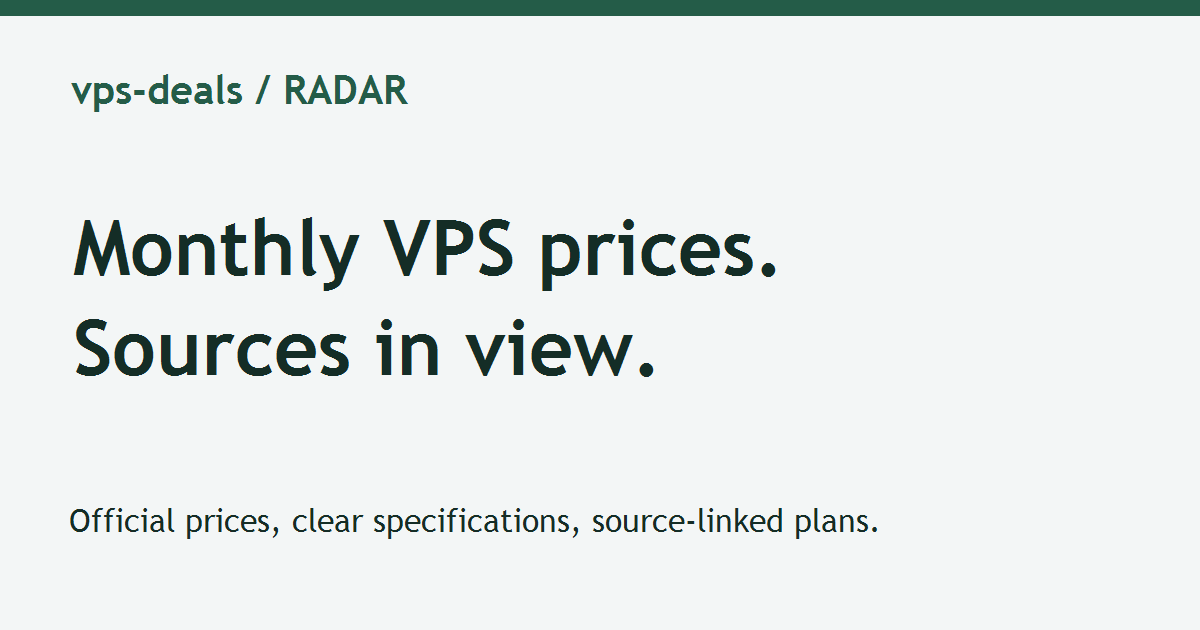
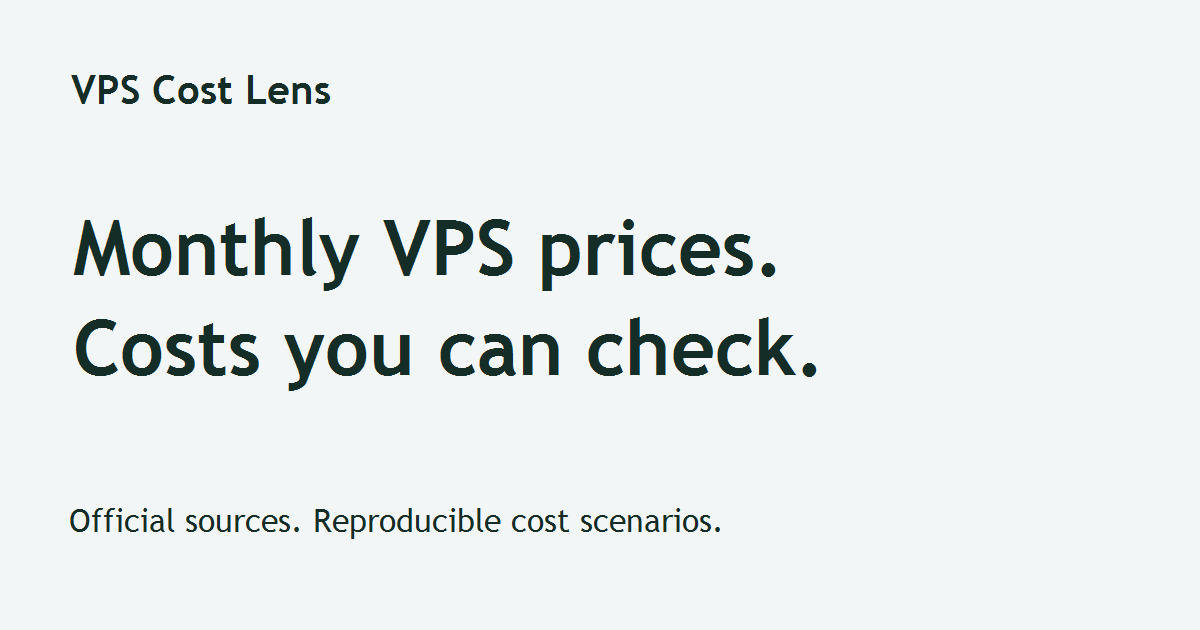
Prepare price index, verified billing scenarios and custom domain migration

diff --git a/templates/index.html b/templates/index.html
@@ -1,4 +1,4 @@
 <section class="hero" aria-labelledby="hero-title"><div class="hero-intro"><h1 id="hero-title">Choose a VPS with the monthly price in view.</h1><p>Compare official monthly prices with memory, compute and storage in the same place. Check the source before you deploy.</p><a class="button primary" href="#plans">Explore verified plans</a><p class="freshness">Source check: <time datetime="$checked">$checked_label</time></p></div><div class="price-readout"><h2>Monthly price readout</h2><p>Published USD prices, paired with memory. Bar length represents cost, not performance.</p><ol class="price-ladder">$readout</ol><p class="readout-caption">All $count listed plans. Comparable specifications do not imply equivalent performance.</p></div></section>
 <section class="provider-directory" aria-label="Monitored providers"><p>$provider_count official sources monitored. Open a provider to inspect its current verification status.</p><div class="provider-links">$providers</div></section>
-<section id="plans" class="plan-section" aria-labelledby="plans-heading"><div class="section-heading"><h2 id="plans-heading">Find a plan that fits.</h2><a href="/compare/">Open the comparison table</a></div><p class="measure">These are verified list prices, not claimed discounts. Taxes, region and optional services can change the final bill.</p><form class="plan-controls" data-controls hidden role="search" aria-label="Filter verified plans"><label>Provider or plan<input name="query" type="search" placeholder="Search listed plans" autocomplete="off"></label><label>Maximum USD per month<input name="budget" type="number" min="0" step="any" inputmode="decimal" placeholder="Any amount" aria-describedby="filter-error"></label><label>Sort plans<select name="sort"><option value="price">Lowest monthly price</option><option value="memory">Most memory</option></select></label><button type="reset" class="button secondary" disabled>Reset</button><p id="filter-error" class="field-error" role="alert" hidden>Enter a monthly budget of 0 or more.</p></form><p class="results-label" data-result-count role="status" aria-live="polite">$count plans listed</p><div class="cards" data-plan-list>$cards</div><div class="no-results" data-no-results hidden><h3>No plans match your filters.</h3><p>Increase the budget or clear the search to see the available plans.</p><button type="button" class="button secondary" data-clear>Clear filters</button></div><noscript><p>All verified plans are shown. Browser JavaScript is needed only for optional filtering and sorting.</p></noscript></section>
+<section id="plans" class="plan-section" aria-labelledby="plans-heading"><div class="section-heading"><h2 id="plans-heading">Find a plan that fits.</h2><a href="/compare/">Open the comparison table</a></div><p class="measure">These are published base prices. Taxes, region and optional services can change the final bill.</p><form class="plan-controls" data-controls hidden role="search" aria-label="Filter verified plans"><label>Provider or plan<input name="query" type="search" placeholder="Search listed plans" autocomplete="off"></label><label>Maximum USD per month<input name="budget" type="number" min="0" step="any" inputmode="decimal" placeholder="Any amount" aria-describedby="filter-error"></label><label>Sort plans<select name="sort"><option value="price">Lowest monthly price</option><option value="memory">Most memory</option></select></label><button type="reset" class="button secondary" disabled>Reset</button><p id="filter-error" class="field-error" role="alert" hidden>Enter a monthly budget of 0 or more.</p></form><p class="results-label" data-result-count role="status" aria-live="polite">$count plans listed</p><div class="cards" data-plan-list>$cards</div><div class="no-results" data-no-results hidden><h3>No plans match your filters.</h3><p>Increase the budget or clear the search to see the available plans.</p><button type="button" class="button secondary" data-clear>Clear filters</button></div><noscript><p>All verified plans are shown. Browser JavaScript is needed only for optional filtering and sorting.</p></noscript></section>
 <section class="verification-note"><h2>Keep the source close.</h2><div class="verification-copy"><p>Each plan links to the provider's own pricing page. We publish a price only when it can be mapped to a real plan.</p><p>Checks are scheduled every $hours hours. Schedules can fail; use the check date and confirm the provider's checkout.</p><a href="/methodology/">Read the verification method</a></div></section>

diff --git a/templates/deal.html b/templates/deal.html
@@ -1,1 +1,1 @@
-<section class="page-head"><h1>$title</h1><p>$region</p></section><div class="deal-layout"><article class="deal-specs"><h2>Plan specifications</h2><dl class="specification-list">$specs</dl><h2>Read before deploying</h2><p>This is a published monthly price cap. Usage billing, taxes, location, backups, IPv4 and traffic overages can change the total.</p><p>Last verified: <time>$checked</time></p><p>Source: <a href="$source">Official pricing page</a></p><a href="$provider_url">View this provider's other plans</a></article><aside class="buy-panel" aria-label="Published price and official provider"><p class="price"><span class="currency">$currency</span> $price<span class="period">/month</span></p><p>Official list price. Confirm final cost and eligibility at checkout.</p><a class="button primary" href="$target" rel="$rel">Check official offer</a><p class="disclosure">$disclosure</p><p>No verified expiry date is supplied.</p></aside></div>
+<section class="page-head"><h1>$title</h1><p>$region</p></section><div class="deal-layout"><article class="deal-specs"><h2>Plan specifications</h2><img src="$plan_image" width="1200" height="630" class="plan-summary" alt="$title specification summary"><dl class="specification-list">$specs</dl><h2>Read before deploying</h2><p>This is a published monthly price cap. Usage billing, taxes, location, backups, IPv4 and traffic overages can change the total.</p><p>Last verified: <time>$checked</time></p><p>Source: <a href="$source">Official pricing page</a></p><a href="$provider_url">View this provider's other plans</a>$billing</article><aside class="buy-panel" aria-label="Published price and official provider"><p class="price"><span class="currency">$currency</span> $price<span class="period">/month</span></p><p>Official list price. Available through the provider online; regional capacity and account eligibility require confirmation. This is not a stock guarantee.</p><a class="button primary" href="$target" rel="$rel">View official pricing</a><p class="disclosure">$disclosure</p><p>No verified expiry date is supplied.</p></aside></div>

diff --git a/assets/style.css b/assets/style.css
@@ -59,3 +59,5 @@ input::placeholder{color:var(--muted);opacity:1}.plan-controls [aria-invalid=tru
 @media(max-width:360px){.hero-intro{padding:var(--s6)}.price-ladder li{grid-template-columns:6ch minmax(20px,1fr) 10ch;gap:var(--s2)}.provider-links{gap:var(--s2) var(--s4)}.plan{grid-template-columns:minmax(0,1fr) minmax(0,.75fr);gap:var(--s4)}}
 @media(max-height:600px) and (max-width:1100px){.hero{grid-template-columns:1fr}}
 @media(prefers-reduced-motion:reduce){.price-readout{animation:none}*{scroll-behavior:auto!important;transition:none!important}}
+
+.plan-summary{width:100%;height:auto}.billing-list{margin:0}.billing-list>div{padding-block:var(--s4);border-bottom:1px solid var(--line)}.billing-list dt{font-weight:var(--weight-heading)}.billing-list dd{margin:var(--s2) 0 0}.cost-scenarios ol{padding-left:var(--s6);display:grid;gap:var(--s8)}.cost-scenarios h3{margin-bottom:var(--s3)}

diff --git a/build.py b/build.py
@@ -9,10 +9,20 @@ import shutil
 from datetime import datetime, timezone, timedelta
 from pathlib import Path
 from string import Template
+from decimal import Decimal, ROUND_HALF_UP
 from xml.sax.saxutils import escape as xml_escape
 from config import ROOT, load_config
 
 def esc(x): return html.escape(str(x), quote=True)
+def cost_analysis(o):
+    price=Decimal(o['price']); hourly=Decimal(o['hourly_price'])
+    def money(x): return format(x.quantize(Decimal('.01'),rounding=ROUND_HALF_UP),'.2f')
+    docs='https://docs.digitalocean.com/products/droplets/details/pricing/'
+    return '<section class="cost-scenarios"><h2>Our reproducible cost scenarios</h2><p>Authored calculations for this exact plan, not measured invoices or provider quotations. USD, before tax; no credits or other resources. Recalculate with the linked rates if terms change.</p><ol>'+''.join([
+        '<li><h3>Monthly backup budget</h3><p>Base '+esc(o['price'])+' × 20% = '+money(price*Decimal('.2'))+' extra for basic weekly backups; total '+money(price*Decimal('1.2'))+'/month. Basic daily backups at 30% give '+money(price*Decimal('1.3'))+'/month. Usage-based backups are a separate option.</p><p>Source: <a href="https://docs.digitalocean.com/products/backups/details/pricing/#basic-plans">Backups Pricing, Basic Plans, paragraph 1 and Weekly/Daily table rows</a>; base: <a href="'+esc(o['source_url'])+'">Basic Regular table, model '+esc(o['model'])+'</a>.</p></li>',
+        '<li><h3>Transfer overage budget</h3><p>Scenario: the team exceeds its accrued included outbound pool by 100 GiB. 100 × USD 0.01/GiB = USD 1.00 extra; this plan’s full base plus that charge = USD '+money(price+1)+'. This is team-level excess, not 100 GiB above an isolated VM allowance.</p><p>Source: <a href="'+docs+'#bandwidth-billing">Bandwidth Billing, paragraphs 1–2</a>; included transfer for this plan: '+esc(o['specs']['transfer'])+'.</p></li>',
+        '<li><h3>Power-off is not cancellation</h3><p>Scenario: a newly created instance stays reserved but powered off for 24 hours, then is destroyed. 24 × USD '+esc(o['hourly_price'])+'/hour = approximately USD '+money(min(hourly*24,price))+', within the monthly base cap USD '+esc(o['price'])+'. The provider bills by seconds; the displayed hourly rate and cent rounding make this a budget estimate. Powering off saves no reserved compute charge; destroying ends future instance billing. Separate backups or other resources are outside this example.</p><p>Source: <a href="'+docs+'#bundled-cpu-droplet-billing">Bundled CPU Droplet Billing, paragraphs 1–2</a>; hourly input: <a href="'+esc(o['source_url'])+'">Basic Regular table, '+esc(o['model'])+', $/hr column</a>.</p></li>'
+    ])+'</ol><p>Price observation: <time>'+esc(o['fetched_at'])+'</time>. Terms review: <time>'+esc(o['billing']['reviewed_at'])+'</time>. Section paragraph counts exclude headings and navigation.</p></section>'
 def fresh_offers(cfg, data, now=None):
     now = now or datetime.now(timezone.utc)
     providers = {p['id'] for p in cfg['providers']}
@@ -42,12 +52,13 @@ def build(config_path=None, output=None):
     def url(path): return base + path
     def schema_offer(o):
         result = {'@type':'Offer','name':o['title'],'price':o['price'],'priceCurrency':o['currency'],
-                  'url':url('/deals/'+o['id']+'/'), 'seller':{'@type':'Organization','name':next(p['name'] for p in cfg['providers'] if p['id']==o['provider_id'])}}
+                  'url':url('/plans/'+o['id']+'/'), 'seller':{'@type':'Organization','name':next(p['name'] for p in cfg['providers'] if p['id']==o['provider_id'])}}
         if o.get('valid_until'): result['priceValidUntil'] = o['valid_until'][:10]
-        # Availability is deliberately omitted: pricing tables do not prove live stock.
+        # OnlineOnly describes the official purchase channel, not regional inventory.
+        if o.get('billing'): result['availability'] = 'https://schema.org/OnlineOnly'
         return result
     def itemlist(items):
-        return {'@type':'ItemList','itemListElement':[{'@type':'ListItem','position':i+1,'url':url('/deals/'+o['id']+'/'),'name':o['title']} for i,o in enumerate(items)]}
+        return {'@type':'ItemList','itemListElement':[{'@type':'ListItem','position':i+1,'url':url('/plans/'+o['id']+'/'),'name':o['title']} for i,o in enumerate(items)]}
     def template(filename,**values):
         return Template((ROOT/'templates'/filename).read_text(encoding='utf-8')).substitute(values)
     def page(path,title,desc,body,schemas=(),crumb=None,lastmod=checked):
@@ -64,15 +75,16 @@ def build(config_path=None, output=None):
     def cards(items):
         if not items: return '<p class="empty">No current price verified. Check the official provider page.</p>'
         return ''.join(template('card.html',title=esc(o['title']),price=esc(o['price']),currency=esc(o['currency']),
-                    specs=esc(' · '.join(o['specs'].values())),href='/deals/'+esc(o['id'])+'/',kind='Official list price',provider=esc(next(p['name'] for p in cfg['providers'] if p['id']==o['provider_id'])),model=esc(o['model']),memory=esc(o['specs']['memory']),cpu=esc(o['specs']['cpu']),disk=esc(o['specs']['disk']),transfer=esc(o['specs']['transfer'])) for o in items)
-    providers_html = ''.join('<a class="provider-chip" href="/providers/'+esc(p['id'])+'/">'+esc(p['name'])+' <span>'+str(sum(o['provider_id']==p['id'] for o in offers))+' prices</span></a>' for p in cfg['providers'])
+                    specs=esc(' · '.join(o['specs'].values())),href='/plans/'+esc(o['id'])+'/',kind='Official list price',provider=esc(next(p['name'] for p in cfg['providers'] if p['id']==o['provider_id'])),model=esc(o['model']),memory=esc(o['specs']['memory']),cpu=esc(o['specs']['cpu']),disk=esc(o['specs']['disk']),transfer=esc(o['specs']['transfer'])) for o in items)
+    active_providers = [p for p in cfg['providers'] if any(o['provider_id']==p['id'] for o in offers)]
+    providers_html = ''.join('<a class="provider-chip" href="/providers/'+esc(p['id'])+'/">'+esc(p['name'])+' <span>'+str(sum(o['provider_id']==p['id'] for o in offers))+' prices</span></a>' for p in active_providers)
     maximum = max((float(o['price']) for o in offers), default=1)
     readout = ''.join('<li><span>'+esc(o['specs']['memory'])+'</span><meter min="0" max="'+str(maximum)+'" value="'+esc(o['price'])+'" aria-label="'+esc(o['title'])+': '+esc(o['currency'])+' '+esc(o['price'])+' per month">'+esc(o['price'])+'</meter><span>'+esc(o['currency'])+' '+esc(o['price'])+'</span></li>' for o in sorted(offers,key=lambda o:float(o['price'])))
     if not readout: readout = '<li class="readout-empty">Open a provider page to check current official prices.</li>'
     checked_label = datetime.fromisoformat(checked).strftime('%d %b %Y, %H:%M UTC')
-    index_body = template('index.html',count=len(offers),provider_count=len(cfg['providers']),checked=esc(checked),checked_label=esc(checked_label),providers=providers_html,cards=cards(offers),hours=cfg['update_hours'],readout=readout)
-    page('/',f"{cfg['brand']} — VPS prices & verified deals | {month}",f"Compare {len(offers)} source-linked VPS plans from official provider pages. Checked {month}; no invented coupons.",index_body,[itemlist(offers)])
-    for p in cfg['providers']:
+    index_body = template('index.html',count=len(offers),provider_count=len(active_providers),checked=esc(checked),checked_label=esc(checked_label),providers=providers_html,cards=cards(offers),hours=cfg['update_hours'],readout=readout)
+    page('/',f"{cfg['brand']} — VPS prices & cost analysis | {month}",f"Compare {len(offers)} source-linked VPS plans from official provider pages. Checked {month}; with source-linked billing terms.",index_body,[itemlist(offers)])
+    for p in active_providers:
         items = [o for o in offers if o['provider_id']==p['id']]; status = statuses.get(p['id'],{})
         text = 'Current official prices verified.' if items else 'No current price verified. '+status.get('message','Provider has not been fetched yet.')
         body = template('provider.html',name=esc(p['name']),region=esc(p['region']),source=esc(p['source']),status=esc(text),checked=esc(status.get('checked_at','Not checked')),cards=cards(items))
@@ -80,19 +92,25 @@ def build(config_path=None, output=None):
         if items:
             prices = [float(o['price']) for o in items]
             service['offers'] = {'@type':'AggregateOffer','priceCurrency':items[0]['currency'],'lowPrice':str(min(prices)),'highPrice':str(max(prices)),'offerCount':len(items),'offers':[schema_offer(o) for o in items]}
-        page('/providers/'+p['id']+'/',f"{p['name']} VPS prices — {len(items)} verified plans | {month}",f"{p['name']} official VPS pricing, source and verification status for {month}. No discount claimed without evidence.",body,[service],p['name'],status.get('checked_at',checked))
+        page('/providers/'+p['id']+'/',f"{p['name']} VPS prices — {len(items)} verified plans | {month}",f"{p['name']} official VPS pricing, source and verification status for {month}. Includes published monthly caps and billing scope.",body,[service],p['name'],status.get('checked_at',checked))
     for o in offers:
         p = next(p for p in cfg['providers'] if p['id']==o['provider_id'])
+        image_path='/assets/plans/'+o['id']+'.svg'
+        picture=out/image_path.lstrip('/'); picture.parent.mkdir(exist_ok=True)
+        picture.write_text('<svg xmlns="http://www.w3.org/2000/svg" width="1200" height="630" viewBox="0 0 1200 630"><rect width="1200" height="630" fill="#f3f6f6"/><g fill="#142d26" font-family="sans-serif"><text x="64" y="110" font-size="38">'+esc(p['name'])+' · '+esc(o['model'])+'</text><text x="64" y="235" font-size="64">'+esc(o['specs']['memory'])+' · '+esc(o['specs']['cpu'])+'</text><text x="64" y="330" font-size="38">'+esc(o['specs']['disk'])+' SSD · '+esc(o['specs']['transfer'])+' transfer</text><text x="64" y="460" font-size="64">'+esc(o['currency'])+' '+esc(o['price'])+' / month cap</text><text x="64" y="555" font-size="30">Authored specification summary · not a hardware photograph</text></g></svg>',encoding='utf-8')
         sponsored = bool(p.get('affiliate_url')); target = p.get('affiliate_url') or o['offer_url']
         specs = ''.join('<div><dt>'+esc(k.title())+'</dt><dd>'+esc(v)+'</dd></div>' for k,v in o['specs'].items())
+        billing = o.get('billing',{})
+        billing_html = '<section><h2>Billing scope and evidence</h2><dl class="billing-list">'+''.join('<div><dt>'+esc(label)+'</dt><dd>'+esc(billing.get(key,'Not verified; confirm with provider.'))+'</dd></div>' for key,label in [('basis','Usage and monthly cap'),('tax','Tax'),('ipv4','Public IPv4'),('backup','Backups')])+'</dl><p>Terms reviewed: <time>'+esc(billing.get('reviewed_at','Not reviewed'))+'</time>. Paragraph numbers below are counted within the named section, excluding headings.</p><ul>'+''.join('<li><a href="'+esc(s['url'])+'">'+esc(s['location'])+'</a></li>' for s in billing.get('sources',[]))+'</ul></section>'
         body = template('deal.html',title=esc(o['title']),price=esc(o['price']),currency=esc(o['currency']),specs=specs,region=esc(o['region']),checked=esc(o['fetched_at']),
+                        billing=billing_html+cost_analysis(o),plan_image=esc(image_path),
                         source=esc(o['source_url']),target=esc(target),rel='sponsored noopener' if sponsored else 'noopener',
                         disclosure='Affiliate link: we may earn a commission if you purchase.' if sponsored else 'Direct official link. No affiliate commission is configured for this provider.',provider_url='/providers/'+esc(p['id'])+'/')
-        product = {'@type':'Product','name':o['title'],'description':f"{p['name']} {o['model']}, {o['currency']} {o['price']} per month. Official list price; confirm checkout terms.",'brand':{'@type':'Brand','name':p['name']},'offers':schema_offer(o)}
-        page('/deals/'+o['id']+'/',f"{o['title']} — {o['currency']} {o['price']}/mo | {month}",f"{o['title']}: {o['currency']} {o['price']}/month, official list price checked {month}. See specs, conditions and original source.",body,[product],o['model'],o['fetched_at'])
-    rows = ''.join('<tr><td><a href="/deals/'+esc(o['id'])+'/">'+esc(o['title'])+'</a></td><td>'+esc(o['currency'])+' '+esc(o['price'])+'</td><td>'+esc(o['specs']['memory'])+'</td><td>'+esc(o['specs']['cpu'])+'</td><td>'+esc(o['specs']['disk'])+'</td></tr>' for o in sorted(offers,key=lambda o:float(o['price'])))
+        product = {'@type':'Product','name':o['title'],'image':[url(image_path)],'description':f"{p['name']} {o['model']}, {o['currency']} {o['price']} per month. Official list price; confirm checkout terms.",'brand':{'@type':'Brand','name':p['name']},'offers':schema_offer(o)}
+        page('/plans/'+o['id']+'/',f"{o['title']} — {o['currency']} {o['price']}/mo | {month}",f"{o['title']}: {o['currency']} {o['price']}/month, official list price checked {month}. See specs, conditions and original source.",body,[product],o['model'],o['fetched_at'])
+    rows = ''.join('<tr><td><a href="/plans/'+esc(o['id'])+'/">'+esc(o['title'])+'</a></td><td>'+esc(o['currency'])+' '+esc(o['price'])+'</td><td>'+esc(o['specs']['memory'])+'</td><td>'+esc(o['specs']['cpu'])+'</td><td>'+esc(o['specs']['disk'])+'</td></tr>' for o in sorted(offers,key=lambda o:float(o['price'])))
     page('/compare/',f"Compare official VPS prices | {month}",f"Compare source-linked VPS monthly prices and specifications, checked {month}. Taxes and optional services may add to the total.",template('compare.html',rows=rows),[itemlist(offers)],'Compare')
-    method = '<section class="page-head"><h1>How we check prices</h1><p>We monitor official public pricing pages. A regular price is not a coupon. We only claim a discount when an adapter can verify its amount, conditions and applicable plan.</p></section><section class="prose"><h2>Verification and freshness</h2><p>The pipeline checks robots.txt, fetches the configured public page and maps a named plan to its monthly price. Unknown markup, fetch errors and ambiguous prices produce no current deal. Prices older than '+str(cfg['max_age_hours'])+' hours are removed at the next build. An already deployed static site cannot update if the schedule stops; read the timestamp and verify checkout.</p><h2>Costs and eligibility</h2><p>Amounts are provider list prices, not guaranteed quotes. Billing caps, hourly usage, location, tax, IPv4, backups and transfer overages can affect your bill. Free credits and new-customer promotions are not recurring plan discounts.</p><h2>Affiliate disclosure</h2><p>No affiliate approval or income is claimed. Direct links are used until an approved tracking link is configured. Sponsored links are labelled where shown.</p><h2>Privacy</h2><p>This site sets no analytics cookies and contains no tracking scripts. Filtering and sorting run on your device without sending your input to a server. Hosting and outbound providers process requests under their own policies.</p><h2>Corrections and source code</h2><p>Review public data, fetch statuses or report a problem in the <a href="'+esc(cfg['repository_url'])+'">GitHub project</a>.</p></section>'
+    method = '<section class="page-head"><h1>How we check prices</h1><p>We monitor official public pricing pages. This index records base prices and specifications, with separately labelled cost scenarios.</p></section><section class="prose"><h2>Verification and freshness</h2><p>The pipeline checks robots.txt, fetches the configured public page and maps a named plan to its monthly price. Unknown markup, fetch errors and ambiguous prices produce no current priced plan. Prices older than '+str(cfg['max_age_hours'])+' hours are removed at the next build. An already deployed static site cannot update if the schedule stops; read the timestamp and verify checkout.</p><h2>Costs and eligibility</h2><p>Amounts are provider list prices, not guaranteed quotes. Billing caps, hourly usage, location, tax, IPv4, backups and transfer overages can affect your bill. No account-specific credits are included in the estimates.</p><h2>Affiliate disclosure</h2><p>No affiliate approval or income is claimed. Direct links are used until an approved tracking link is configured. Sponsored links are labelled where shown.</p><h2>Privacy</h2><p>This site sets no analytics cookies and contains no tracking scripts. Filtering and sorting run on your device without sending your input to a server. Hosting and outbound providers process requests under their own policies.</p><h2>Corrections and source code</h2><p>Review public data, fetch statuses or report a problem in the <a href="'+esc(cfg['repository_url'])+'">GitHub project</a>.</p></section>'
     page('/methodology/',f"Methodology, disclosure & privacy | {cfg['brand']}",'How we verify official VPS prices, handle stale data and disclose affiliate links.',method,crumb='Methodology')
     error_body = '<section class="page-head"><h1>This page could not be found.</h1><p>The address may have changed. Return to the current plan list to continue comparing.</p><a class="button primary" href="/">View current plans</a></section>'
     (out/'404.html').write_text(template('base.html',title='Page not found | '+esc(cfg['brand']),description='Return to current verified VPS plans.',brand=esc(cfg['brand']),body=error_body,canonical='<meta name="robots" content="noindex">',schema='{"@context":"https://schema.org","@graph":[]}',url=esc(url('/404.html')),image=esc(url('/assets/og.png')),repository=esc(cfg['repository_url'])),encoding='utf-8')

diff --git a/tests/test_pipeline.py b/tests/test_pipeline.py
@@ -5,11 +5,13 @@ import copy
 import json
 import tempfile
 import unittest
+import shutil
+from unittest.mock import patch
 from datetime import datetime, timezone, timedelta
 from pathlib import Path
 from config import ROOT, load_config
 from scraper import extract
-from build import fresh_offers, build
+from build import fresh_offers, build, cost_analysis
 
 NOW=datetime.now(timezone.utc).isoformat()
 TABLE='''Basic Droplets<table><tr><th>Memory</th><th>vCPU</th><th>Transfer</th><th>SSD</th><th>$/hr</th><th>$/mo</th></tr><tr><td>1 GiB</td><td>1 vCPU</td><td>1,000 GiB</td><td>25 GiB</td><td>$0.00893</td><td><a href="https://cloud.digitalocean.com/new?size=s-1vcpu-1gb">$6.00</a></td></tr></table>'''
@@ -28,6 +30,23 @@ class PipelineTests(unittest.TestCase):
         self.assertEqual(extract(TABLE.replace('size=','wrong='),self.p,NOW),[])
     def test_unknown_table_fails_closed(self):
         with self.assertRaises(ValueError):extract(TABLE.replace('$/mo','Renewal'),self.p,NOW)
+    def test_cost_scenarios_use_hourly_rate_and_monthly_base(self):
+        row=extract(TABLE,self.p,NOW)[0];row['billing']={'reviewed_at':NOW}
+        result=cost_analysis(row)
+        for amount in ['7.20/month','7.80/month','USD 7.00','approximately USD 0.21']:
+            self.assertIn(amount,result)
+        self.assertIn('team-level excess',result)
+    def test_failed_provider_has_no_page_link_or_sitemap_entry(self):
+        data=json.loads((ROOT/'data/offers.json').read_text(encoding='utf-8'))
+        for provider in data['providers']: provider['status']='error'
+        with tempfile.TemporaryDirectory() as td:
+            root=Path(td);(root/'data').mkdir()
+            (root/'data/offers.json').write_text(json.dumps(data),encoding='utf-8')
+            for folder in ['templates','assets']:shutil.copytree(ROOT/folder,root/folder)
+            with patch('build.ROOT',root):build(ROOT/'.ilang/site.ilang',root/'site')
+            self.assertFalse((root/'site/providers').exists())
+            self.assertNotIn('/providers/',(root/'site/index.html').read_text(encoding='utf-8'))
+            self.assertNotIn('/providers/',(root/'site/sitemap.xml').read_text(encoding='utf-8'))
     def test_failure_stale_expiry_removed_and_deduped(self):
         row=extract(TABLE,self.p,NOW)[0]; data={'providers':[{'id':self.p['id'],'status':'ok'}],'offers':[row,row]}
         cfg=copy.deepcopy(self.cfg);cfg['providers']=[self.p]

diff --git a/scraper.py b/scraper.py
@@ -57,16 +57,17 @@ def extract(html, p, now):
         # Actual provider machine identifier is in the official purchase URL.
         decoded = unquote(unquote(link))
         model = re.search(r'(?:[?&])' + re.escape(p['plan_query']) + r'=([a-z0-9-]+)', decoded)
-        if not price or not model or not all((memory,cpu,disk)): continue
+        if not price or not re.fullmatch(r'\$\d+\.\d+',hourly) or not model or not all((memory,cpu,disk)): continue
         model = model.group(1)
         title = p['name'] + ' ' + p['label'] + ' (' + model + ')'
         offer = {'provider_id':p['id'], 'model':model, 'title':title,
-                 'price':price.group(1), 'currency':p['currency'], 'period':p['period'],
+                 'price':price.group(1), 'hourly_price':hourly.removeprefix('$'), 'currency':p['currency'], 'period':p['period'],
                  'offer_url':p['source'], 'source_url':p['source'], 'fetched_at':now,
                  'kind':'standard', 'region':p['region'],
                  'specs':{'memory':memory,'cpu':cpu,'transfer':transfer,'disk':disk},
                  'evidence':{'monthly_cell':monthly,'model_url':link}}
         offer['id'] = p['id'] + '-' + model
+        if p.get('billing'): offer['billing'] = p['billing']
         offers.append(offer)
     return list({(o['provider_id'],o['model'],o['currency']):o for o in offers}.values())
 

diff --git a/verify.py b/verify.py
@@ -17,7 +17,7 @@ def verify():
     urls=[x.text for x in sitemap.findall('.//s:loc',ns)]
     if cfg['base_url']:
         assert len(urls)==len(pages),(len(urls),len(pages))
-        assert sum('/deals/' in u for u in urls)==len(offers)
+        assert sum('/plans/' in u for u in urls)==len(offers)
         assert all(u.startswith(cfg['base_url']+'/') for u in urls)
     for path in pages:
         s=path.read_text(encoding='utf-8'); rel=path.relative_to(root).as_posix(); route='/'+rel[:-10]

diff --git a/README.md b/README.md
@@ -1,8 +1,8 @@
-# vps-deals / RADAR
+# VPS Cost Lens
 
-Independent, official-source VPS price and promotion monitor for **en-US**. Default niche: VPS hosting. Default brand: vps-deals. Sources: DigitalOcean, Hetzner, OVHcloud.
+Independent, official-source VPS price index for **en-US**. Default niche: VPS hosting. Brand: VPS Cost Lens. Published source: DigitalOcean. Unpriced sources are removed from navigation, provider pages and sitemap.
 
-**Live site:** https://vps-deals-promo-radar-3cx.pages.dev — hosted on Cloudflare Pages with repository-triggered builds.
+**Target domain (registration/DNS verification pending):** https://vpscostlens.com — hosted on Cloudflare Pages with repository-triggered builds.
 
 ## Run
 
@@ -22,7 +22,7 @@ Open http://localhost:4190. Unassigned `base_url` builds are noindex and contain
 
 `.ilang/site.ilang` is the only source for brand, base URL, provider list, adapters, fields and rendering policy. The `::JSON_BEGIN` / `::JSON_END` block is a strict JSON payload inside the human-readable I-Lang document; `config.py` validates it. Both scraper and builder read it. Remove a provider there, run scraper + build, and its provider and deal pages disappear. The test suite actually exercises this.
 
-DigitalOcean's adapter reads the first six-column Basic Regular pricing table and its actual purchase-URL plan identifiers. It takes only the unambiguous monthly cell, never hourly numbers, credits, original prices or renewal prices. Other providers currently use `monitor_only`: their public pages are monitored but prices are not guessed. Add a reviewed deterministic adapter before publishing their prices. Feed/sitemap discovery is not implemented in v1; v1 uses official pricing pages.
+DigitalOcean's adapter reads the first six-column Basic Regular pricing table and its actual purchase-URL plan identifiers. It takes only the unambiguous monthly cell, never hourly numbers, credits, original prices or renewal prices. Sources without a reviewed price adapter are not published. Only providers with current verified offers generate a page or homepage entry. Feed/sitemap discovery is not implemented in v1; v1 uses official pricing pages.
 
 Every record includes the official source, UTC check timestamp, source SHA-256, plan ID and the exact observed monthly cell. `data/offers.json` is public, including fetch statuses. The bot checks robots.txt before fetching. HTTP 404 robots is treated as no restrictions; network/403/5xx robots errors fail closed. No certificate bypass, login scraping or anti-bot evasion.
 
@@ -34,11 +34,11 @@ Cloudflare Pages: connect this **public** repository, production branch `main`, 
 
 After Pages creates a project, copy its **returned actual production URL** into `base_url` and `@SITE domain` in `.ilang/site.ilang`, then rebuild and commit. Never guess the hostname from the project name. Verify canonical links, robots and every sitemap URL externally. The builder deliberately refuses to invent a production hostname.
 
-The latest observations are built into static pages. Failed sources have no current priced plans. Entries over 30 hours old and expired entries are omitted at build time. If the scheduler or deployment stops, an already-published static page cannot expire itself: check the visible timestamp and provider checkout. Monitor Actions failures. Public repository schedules may be disabled after 60 days without repository activity; automation is not guaranteed to run forever.
+The latest observations are built into static pages. Failed sources have no current priced plans or provider pages. Entries over 30 hours old and expired entries are omitted at build time. If the scheduler or deployment stops, an already-published static page cannot expire itself: check the visible timestamp and provider checkout. Monitor Actions failures. Public repository schedules may be disabled after 60 days without repository activity; automation is not guaranteed to run forever.
 
 ## Structured data
 
-Deal pages: Product + Offer + BreadcrumbList. Provider pages: Service with AggregateOffer when prices exist. Home/compare: ItemList. Only observed price/currency fields are emitted. No invented availability, discount, reviews or priceValidUntil. No FAQ block is published, so there is no FAQPage markup. Canonical and sitemap generation use the assigned actual base URL. Local JSON syntax, internal links and sitemap counts are validated by `verify.py`; that is **not** Google's Rich Results Test. Google may require/recommend further fields and does not guarantee rich results. A live Google test must be recorded separately.
+Deal pages: Product + Offer + BreadcrumbList. Provider pages: Service with AggregateOffer when prices exist. Home/compare: ItemList. Only observed price/currency fields are emitted. OnlineOnly describes the official online purchase channel, not regional stock. No invented stock, discounts, reviews or priceValidUntil. Each plan has an authored specification image and three explicitly hypothetical cost calculations. No FAQ block is published, so there is no FAQPage markup. Canonical and sitemap generation use the assigned actual base URL. Local JSON syntax, internal links and sitemap counts are validated by `verify.py`; that is **not** Google's Rich Results Test. Google may require/recommend further fields and does not guarantee rich results. A live Google test must be recorded separately.
 
 ## Monetization
 
@@ -49,8 +49,6 @@ Public source code and a website do not establish income or transferable busines
 ## Sources and operating limits
 
 - https://www.digitalocean.com/pricing/droplets
-- https://www.hetzner.com/cloud/
-- https://us.ovhcloud.com/vps/
 - https://docs.github.com/en/actions/reference/workflows-and-actions/events-that-trigger-workflows#schedule
 - https://docs.github.com/en/billing/concepts/product-billing/github-actions
 - https://developers.cloudflare.com/pages/platform/limits/
